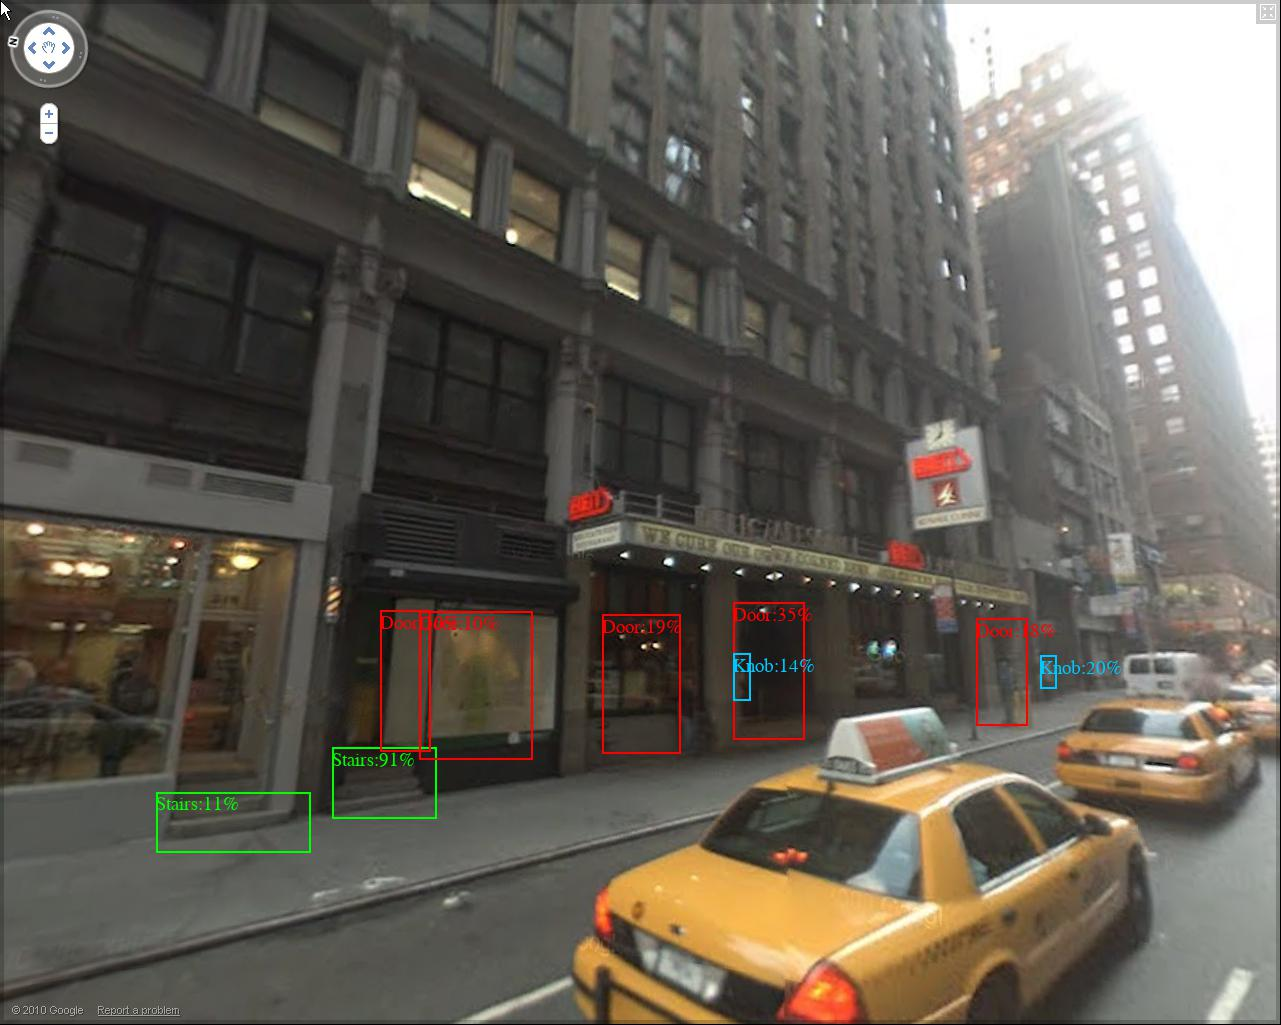
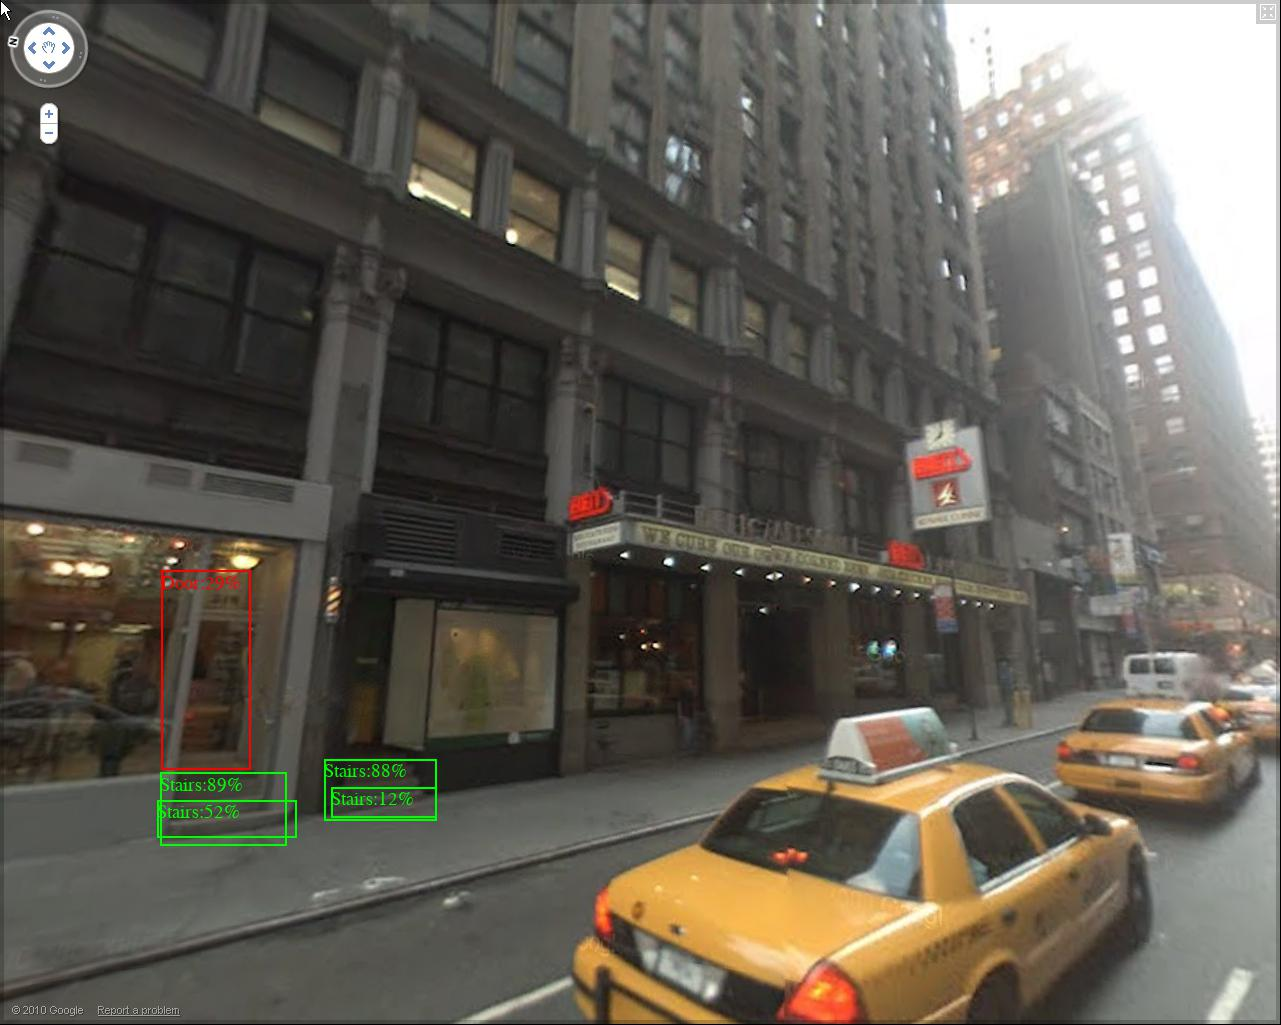
nms is working well

diff --git a/Detection/util_detection.py b/Detection/util_detection.py
@@ -218,7 +218,7 @@ def draw(img,target,dataset,file=None):
 
 	if file!=None:
 		img.save(file)
-		print("image has been saved")
+		print("image has been saved-"+file)
 
 	plt.imshow(img)
 	plt.axis('on')
@@ -260,7 +260,7 @@ load the model in "/Deep-Learnng.model.pt"
 and predicts using all the images from Deep-Learnng/result folder
 dataset:"Coco" or "Labelbox"
 '''
-def predictInImageFolder(imges_path,model_path,IoUThreshold,dataset="Labelbox",NMS=True):
+def predictOnImageFolder(imges_path,model_path,IoUThreshold,dataset="Labelbox",NMS=False):
 	
 	model=torch.load(model_path) #model will be in cuda 
 
@@ -283,11 +283,18 @@ def predictInImageFolder(imges_path,model_path,IoUThreshold,dataset="Labelbox",N
 				score=target[0]["scores"].tolist()
 				label=target[0]["labels"].tolist()
 				box=target[0]["boxes"].tolist()
-				target[0]["scores"],target[0]["labels"],target[0]["boxes"]=nms(box,label,label,IoUThreshold)
+				target[0]["scores"],target[0]["labels"],target[0]["boxes"]=nms(box,label,score,IoUThreshold)
 
+				#image's file name prefix. Indicating nms or not
+				prefix="predict_nms_"
+			
+			else:
+				#image's file name prefix
+				prefix="predict_"
 			#put x back to cpu
 			x=x.cpu()
-			draw(x[0],target[0],"Labelbox",file=os.path.join(imges_path,"predict_"+n))
+
+			draw(x[0],target[0],"Labelbox",file=os.path.join(imges_path,prefix+n))
 
 
 

diff --git a/Detection/detection.py b/Detection/detection.py
@@ -47,5 +47,8 @@ loader_val=Loader(labelbox,start=200,end=200+NUM_VAL,batch_size=batch_size,shuff
 # torch.save(model,model_path)
 
 model=torch.load(model_path)
-checkAp(model,loader_val)
+folder="../NYC"
+predictOnImageFolder(folder,model_path,0.3)
+predictOnImageFolder(folder,model_path,0.3,NMS=True)
+#checkAp(model,loader_val)
 print("finish")
